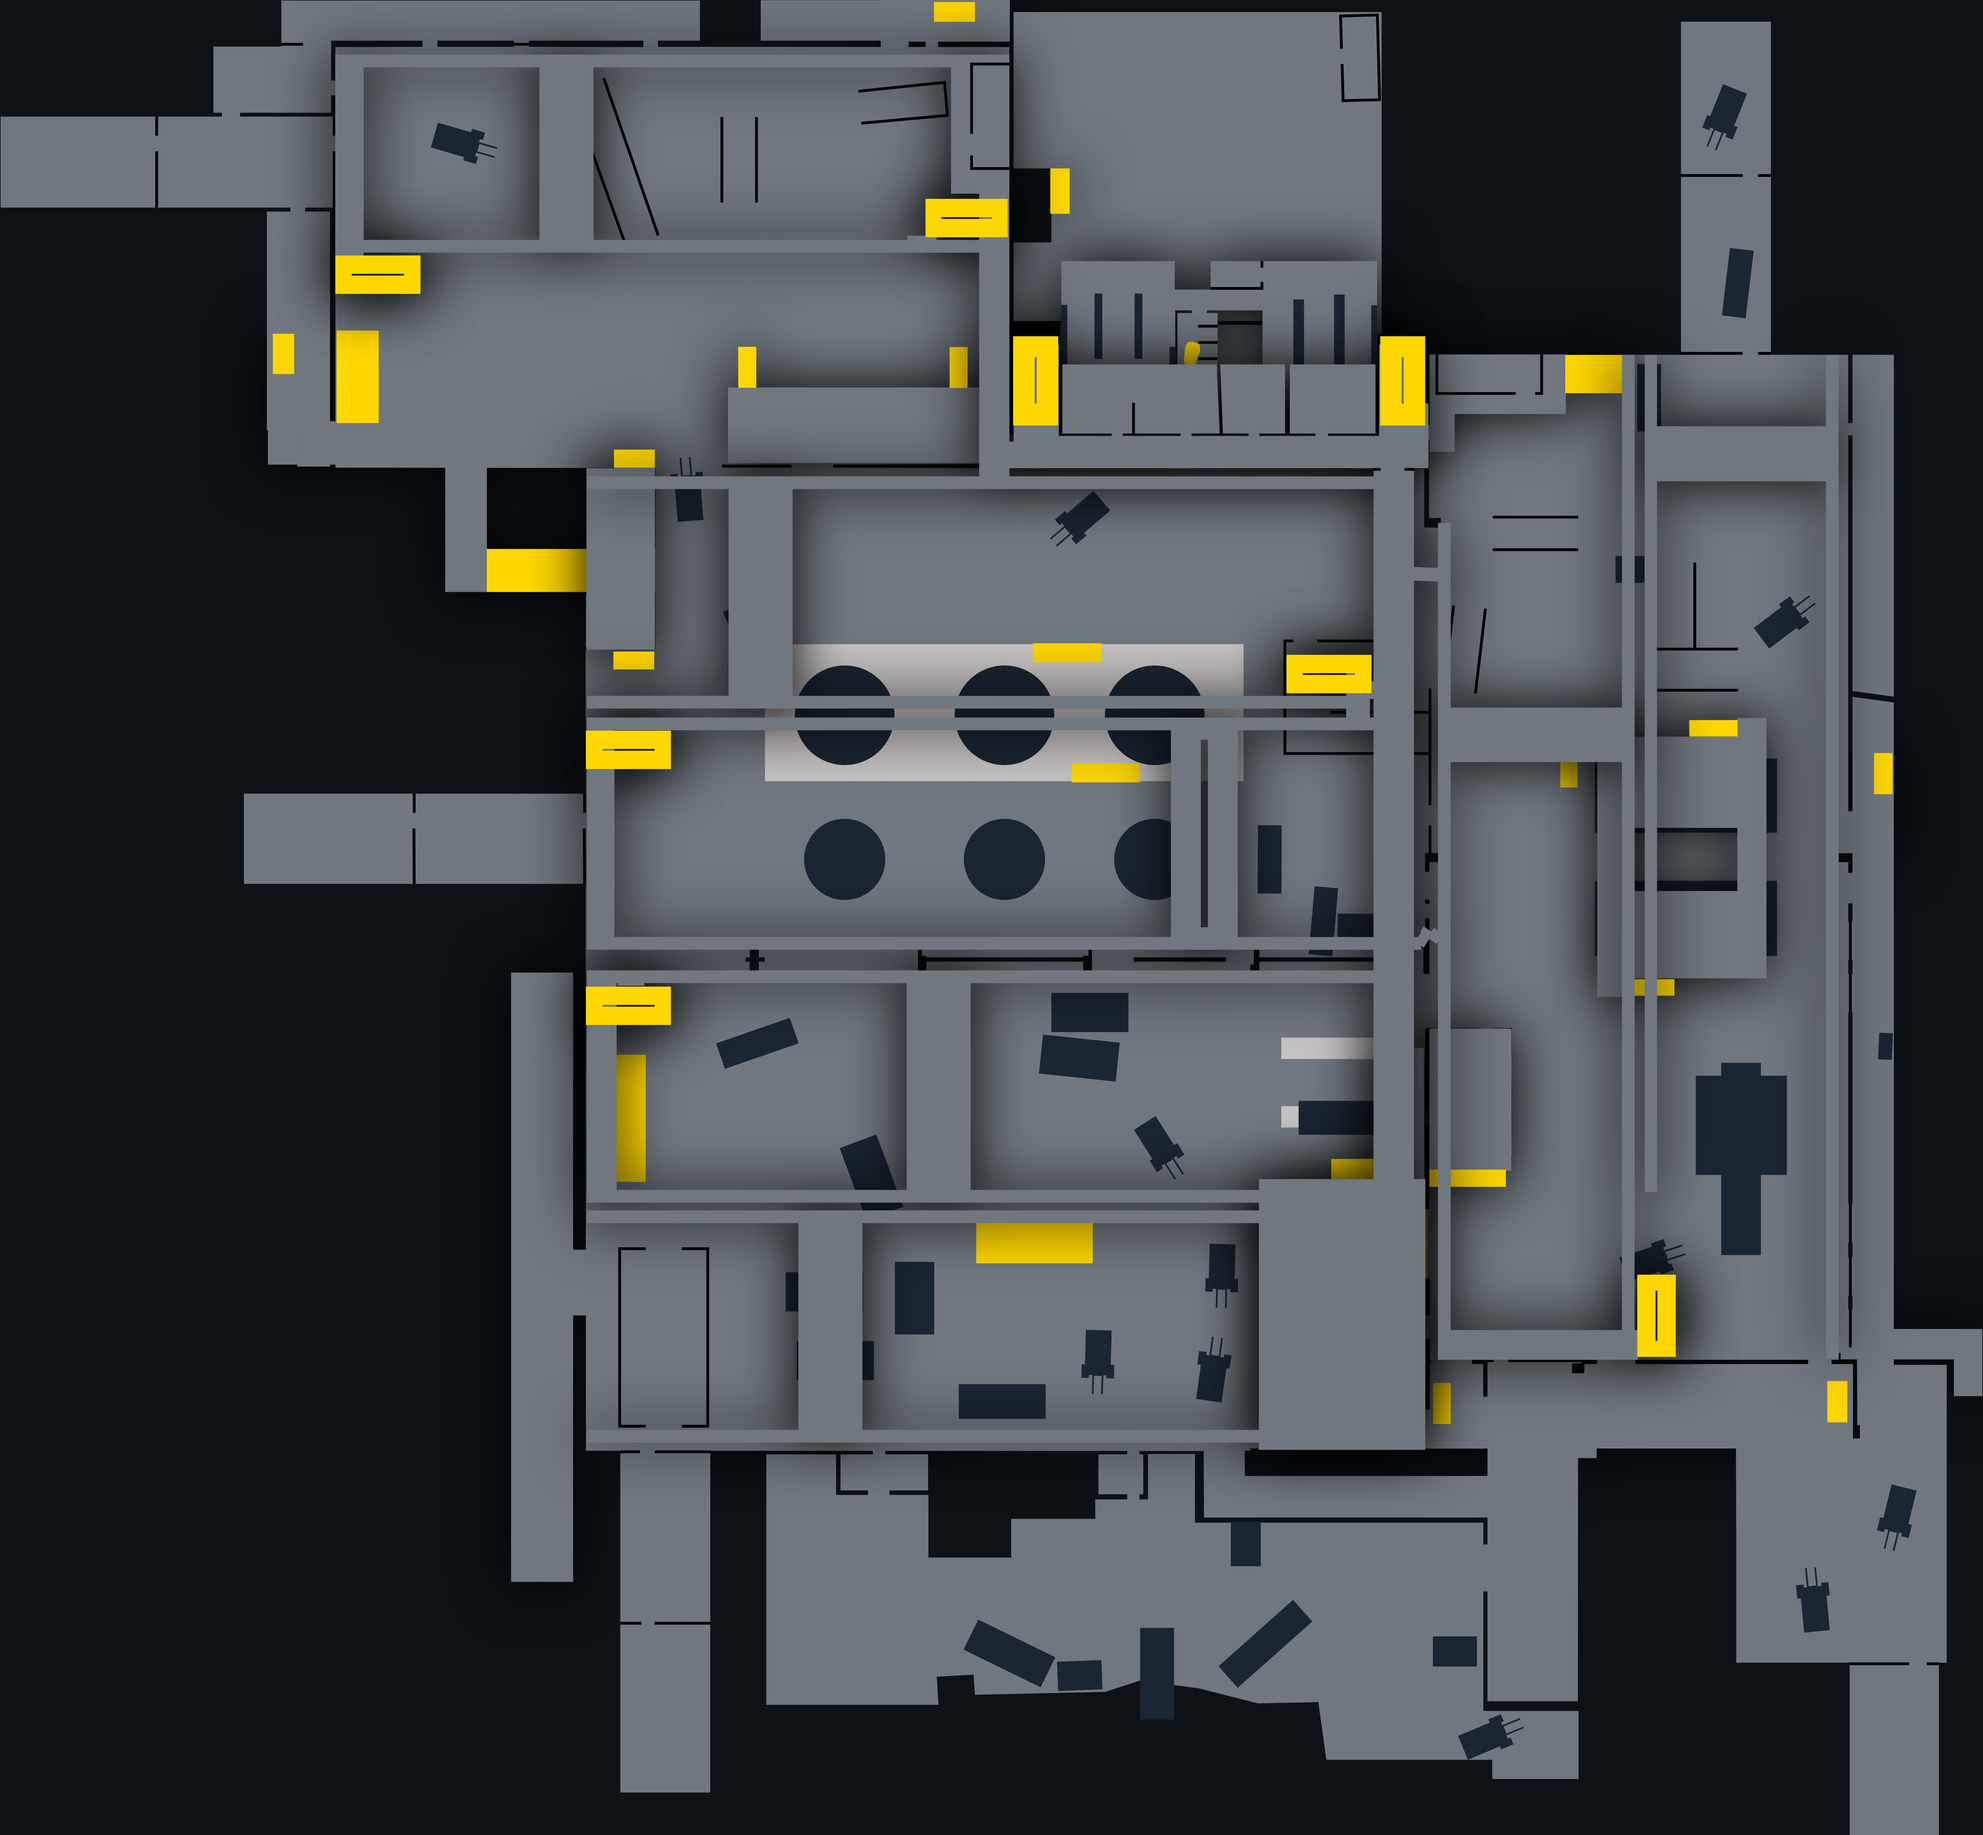
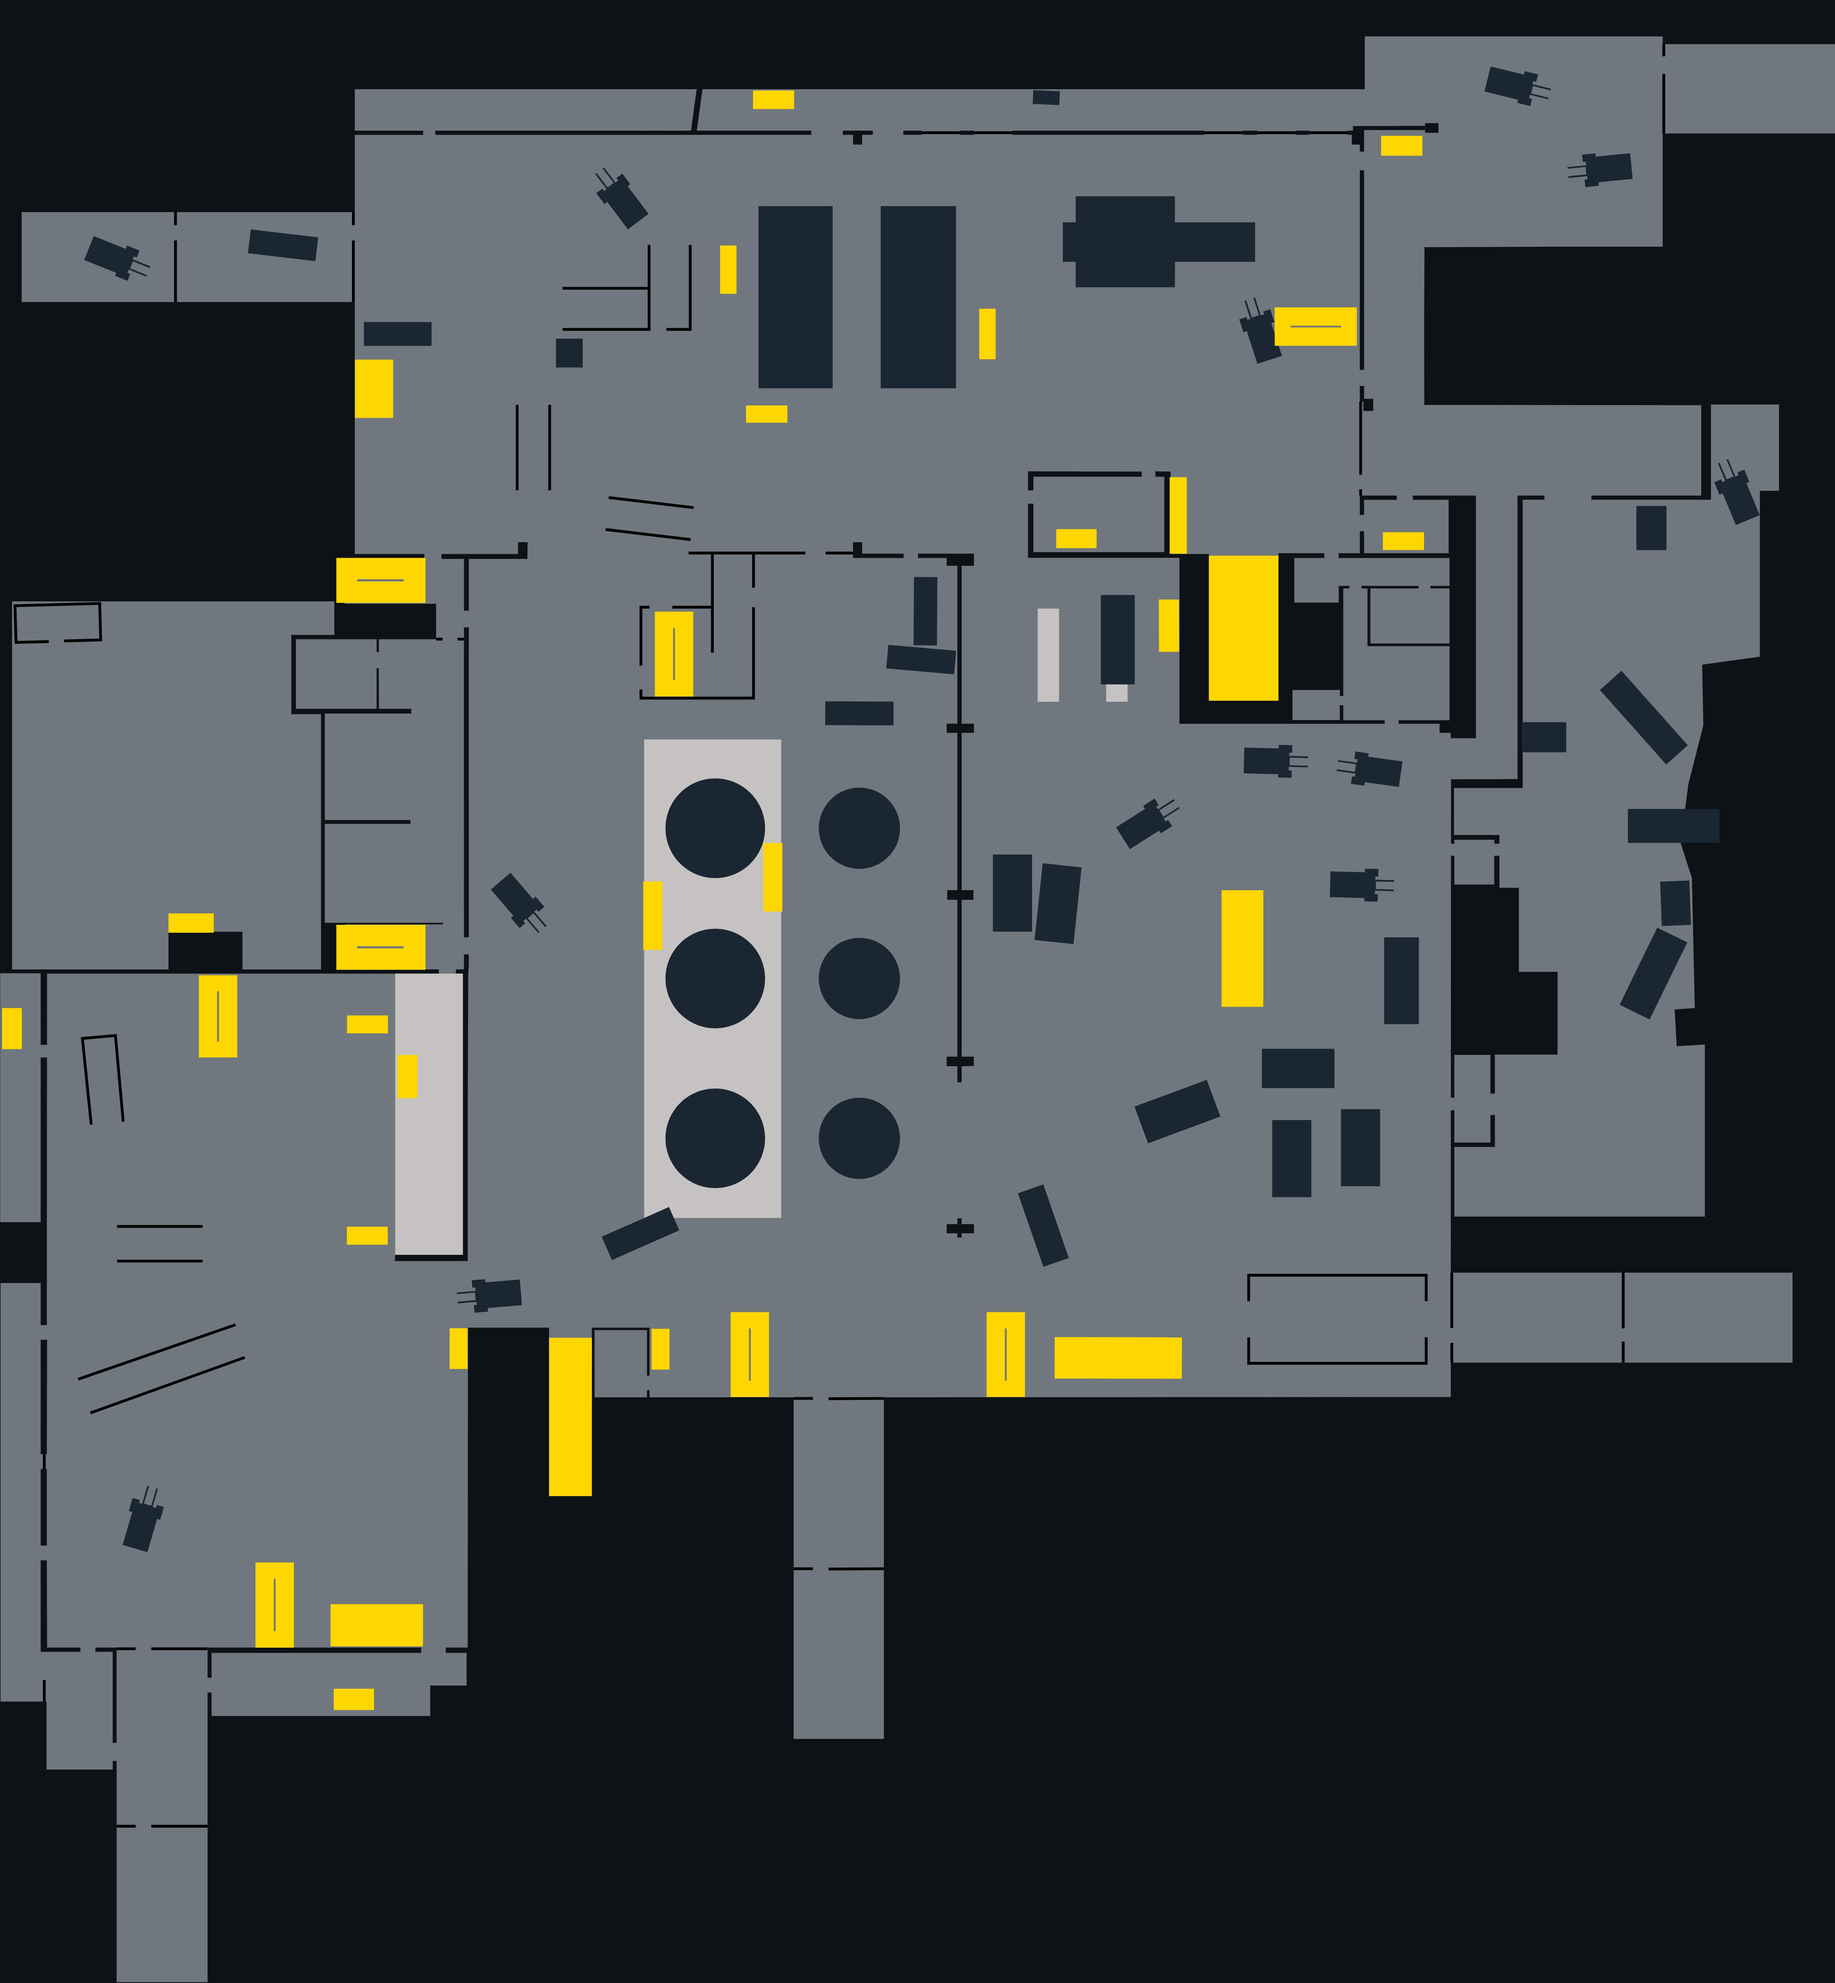
工厂底图改为上北下南并重绘：底图只画地面层，新增 Ground Floor 楼层
- 底图帧统一按 coordinateToCardinalRotation 转正（tarkov.dev 的 svgOverlay 做法），
  工厂因此变成竖版 5183x5600，affine 改为 90 度旋转矩阵
- Factory.svg 四层叠在一起会像重影，底图只渲染 Ground_Floor 组
- 楼层叠加改成「底图压暗 + 上层不透明」，不再 75% 混合出双层墙
- 工厂补 Ground Floor 楼层项（默认），datacheck 一并断言

diff --git a/TarkovAtlas/Controls/MapCanvas.cs b/TarkovAtlas/Controls/MapCanvas.cs
@@ -390,16 +390,21 @@ public sealed class MapCanvas : Control
         // Zoomed out, the viewport covers a small slice of a 5600 px bitmap and
         // the rasteriser re-samples the whole texture every drag frame. Drawing
         // a pre-shrunk copy keeps pixels identical but makes panning smooth.
-        DrawBitmapCropped(context, PickDrawBitmap(_bitmap), dest, 1.0);
+        var baseBitmap = PickDrawBitmap(_bitmap);
+        var floor = Layers.FirstOrDefault(l => l.Bitmap is not null);
 
-        // Floor artwork is baked into the base image's pixel grid, so it can be
-        // stretched over exactly the same destination rectangle. Only the part
-        // intersecting the viewport is sampled: a full 8k Streets image draw is
-        // what made panning drag even when no marker was visible.
-        foreach (var layer in Layers)
+        // A floor overlay is a different deck, not a highlight: blending it
+        // over the ground floor at 75% left both wall sets visible at once,
+        // which read as a doubled/ghosted map. Dim the base, then draw the
+        // selected deck opaque on top.
+        if (floor is null)
         {
-            if (layer.Bitmap is null) continue;
-            DrawBitmapCropped(context, layer.Bitmap, dest, Compact ? 0.85 : 0.75);
+            DrawBitmapCropped(context, baseBitmap, dest, 1.0);
+        }
+        else
+        {
+            DrawBitmapCropped(context, baseBitmap, dest, Compact ? 0.30 : 0.35);
+            DrawBitmapCropped(context, floor.Bitmap!, dest, 1.0);
         }
 
         if (!Compact)

diff --git a/tools/datacheck/Program.cs b/tools/datacheck/Program.cs
@@ -273,9 +273,9 @@ internal static class DataChecks
         }
 
         // ---- floor coverage regressions -----------------------------------
-        // The Lab and Interchange are the two maps users reported as missing
-        // levels. Both need a base-artwork entry plus their overlays.
-        foreach (var key in new[] { "the-lab", "interchange" })
+        // The Lab, Interchange and Factory are the maps users reported as
+        // missing levels. All need a base-artwork entry plus their overlays.
+        foreach (var key in new[] { "the-lab", "interchange", "factory" })
         {
             var ok = layerIndex is not null
                      && layerIndex.TryGetValue(key, out var floors)

diff --git a/AGENTS.md b/AGENTS.md
@@ -90,6 +90,7 @@ tools/
 - 每个 `MapDefinition` 带一个仿射矩阵：`px = a*x + b*z + c; py = d*x + e*z + f`，把游戏坐标映射到图片像素。
 - `MapCanvas.Project()` 是唯一投影入口，所有标记都走它。
 - `maps.json`（`build_assets.py` 产物）里的 affine **未经人工校正**，运行时以 `mapdata.json` 为准。两者不一致时先查原因，**不要直接覆盖**。
+- **底图必须上北下南**：图片帧 = 游戏坐标按 `coordinateToCardinalRotation` 旋转后，`px ∝ east`、`py ∝ -north`；SVG 再按 `(cardinal − coordinateRotation) mod 360` 转正，等比缩放后拉伸进 cardinal bounds 矩形（与 tarkov.dev 的 `L.svgOverlay` 一致）。11 张 `rot=180` 的图是恒等变换，工厂是唯一真正被转过的：竖版 5183×5600，底图只渲染 `Ground_Floor` 组（整张 SVG 四层叠在一起会看着像重影）。
 
 ### 4.2 渲染
 - `MapCanvas.Render()` 每次整帧重绘。性能红线：
@@ -147,6 +148,7 @@ tools/
   - 验收标准：`python tools/check_map_coverage.py icebreaker` 四条边距都 < 10%，标记落在内容区 ≥ 90%，然后把 `"icebreaker"` 从 `knownGeometryDefects` 移除。
   - **修之前注意**：`affine` 的 `e=32` 是对的（船体内容正好 25.6 m），改成 56 会把船体压到 14.6 m。
 - **海岸线楼层**：3 层已生成，内容区仍偏小，待重烘焙。
+- **实验室 / 迷宫底图**：仍走瓦片分支，被硬拉伸进 5600 宽画布（实验室 5600×7683、迷宫 5600×6027，上下有黑边、纵向约 17% 拉伸）。修法与工厂一致：cardinal 帧 + 等比缩放 + 按内容裁切，瓦片缓存在 `tools/tile-cache`。
 
 ---
 
